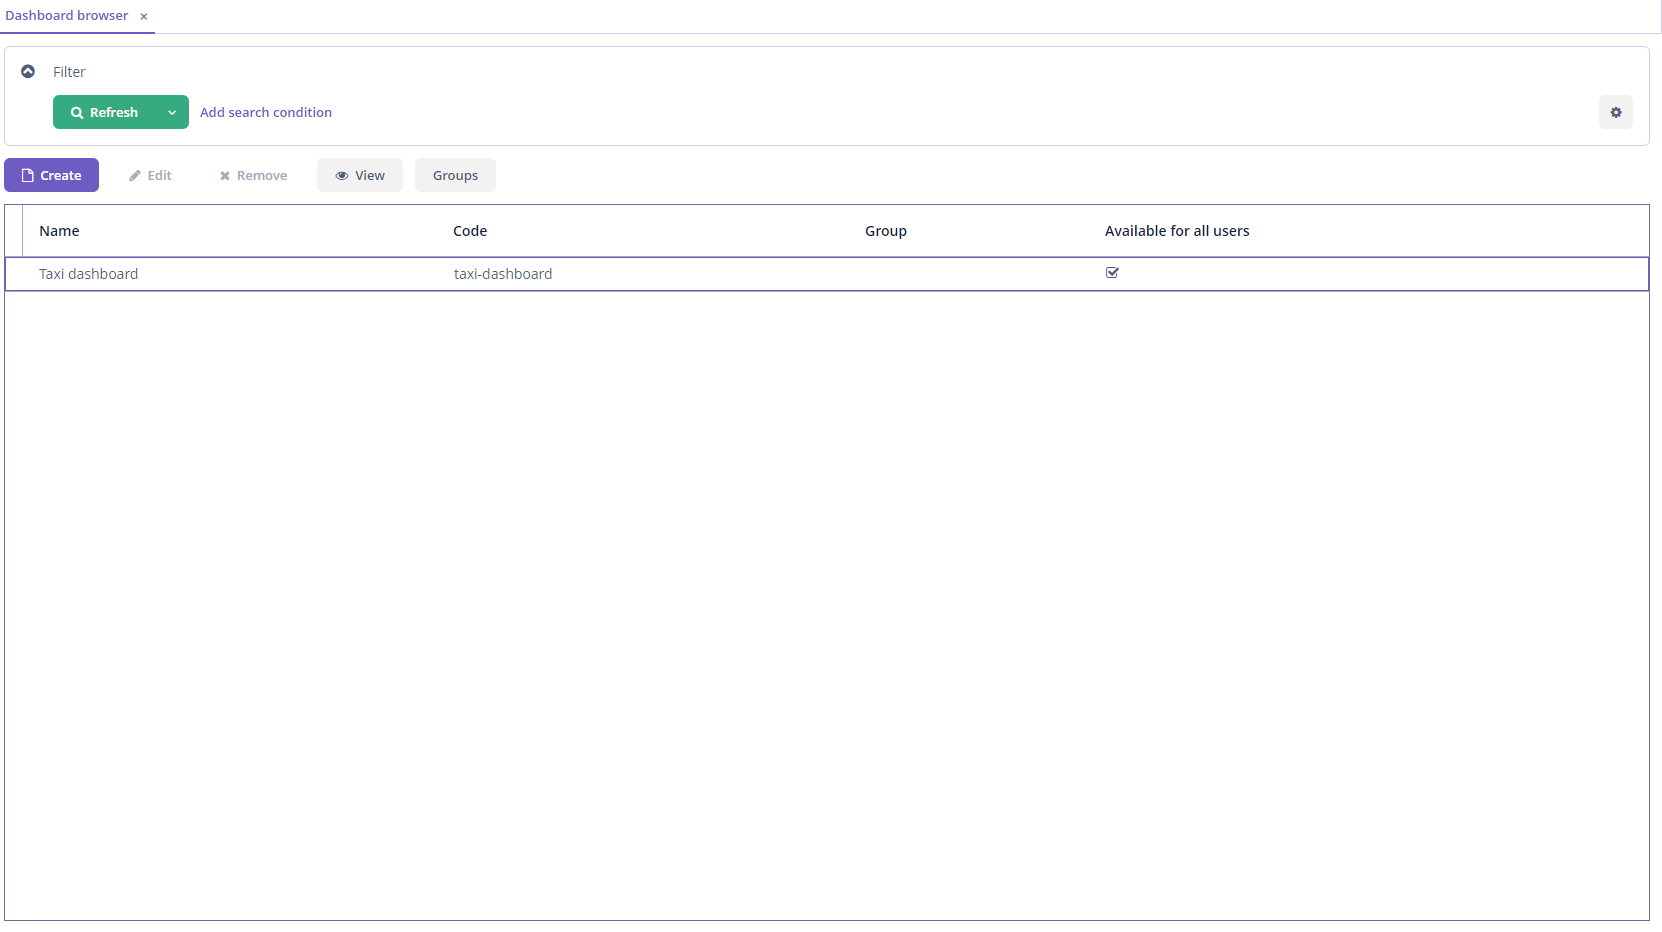
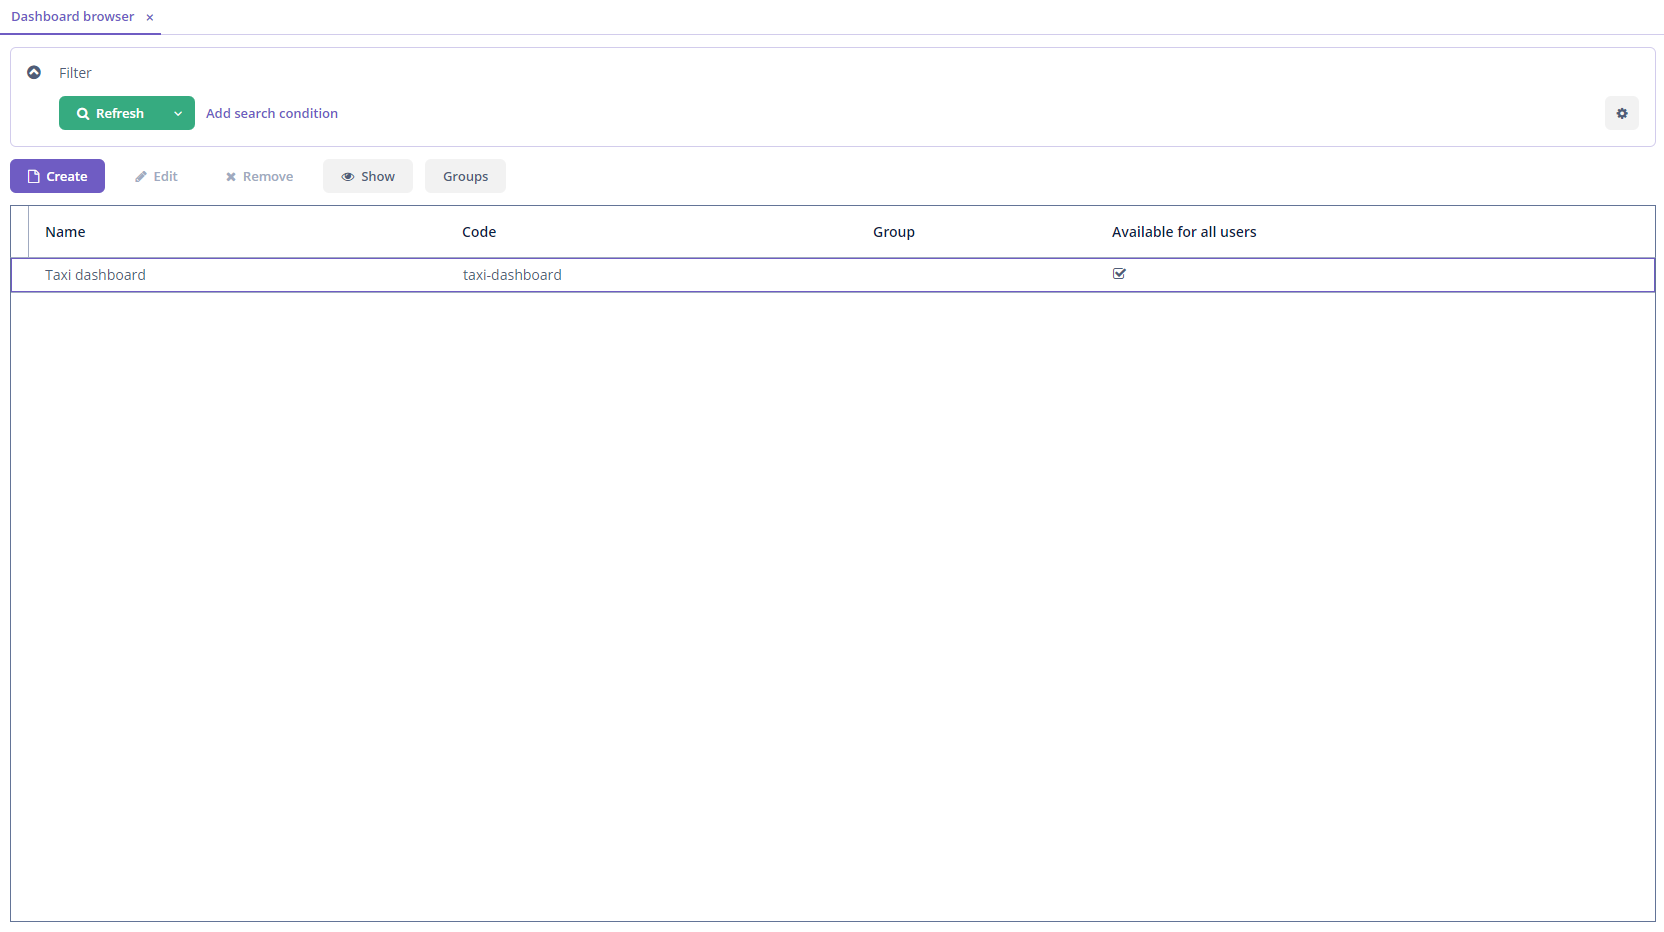
Fixed DashboardsBrowseRole #16

Changed region(s): [[0.0, 0.0, 1.0, 0.3423], [0.2148, 0.1867, 0.2455, 0.2178]]

diff --git a/dashboards-ui/src/main/java/io/jmix/dashboardsui/screen/dashboard/browse/PersistentDashboardBrowse.java b/dashboards-ui/src/main/java/io/jmix/dashboardsui/screen/dashboard/browse/PersistentDashboardBrowse.java
@@ -21,15 +21,19 @@ import io.jmix.core.common.util.ParamsMap;
 import io.jmix.dashboards.entity.PersistentDashboard;
 import io.jmix.dashboardsui.dashboard.tools.AccessConstraintsHelper;
 import io.jmix.dashboardsui.role.accesscontext.DashboardGroupBrowseContext;
+import io.jmix.dashboardsui.role.accesscontext.PersistentDashboardEditButtonContext;
 import io.jmix.dashboardsui.screen.dashboard.view.DashboardViewScreen;
 import io.jmix.dashboardsui.screen.dashboardgroup.DashboardGroupBrowse;
 import io.jmix.ui.Screens;
 import io.jmix.ui.action.Action;
+import io.jmix.ui.action.list.EditAction;
 import io.jmix.ui.component.Button;
 import io.jmix.ui.model.CollectionContainer;
 import io.jmix.ui.model.CollectionLoader;
 import io.jmix.ui.screen.*;
 import org.springframework.beans.factory.annotation.Autowired;
+
+import javax.inject.Named;
 
 @UiController("dshbrd_PersistentDashboard.browse")
 @UiDescriptor("persistent-dashboard-browse.xml")
@@ -54,12 +58,22 @@ public class PersistentDashboardBrowse extends StandardLookup<PersistentDashboar
     @Autowired
     private Button dashboardGroupsBrowse;
 
+    @Named("persistentDashboardsTable.edit")
+    private EditAction<PersistentDashboard> persistentDashboardsTableEdit;
+
     @Subscribe
     public void onBeforeShow(BeforeShowEvent event) {
         persistentDashboardsDl.setParameter("currentUser", accessConstraintsHelper.getCurrentUsername());
         persistentDashboardsDl.load();
 
+        persistentDashboardsTableEdit.setEnabled(isDashboardEditButtonPermitted());
         dashboardGroupsBrowse.setEnabled(isDashboardGroupBrowsePermitted());
+    }
+
+    protected boolean isDashboardEditButtonPermitted() {
+        PersistentDashboardEditButtonContext dashboardEditButtonContext = new PersistentDashboardEditButtonContext();
+        accessManager.applyRegisteredConstraints(dashboardEditButtonContext);
+        return dashboardEditButtonContext.isPermitted();
     }
 
     protected boolean isDashboardGroupBrowsePermitted() {
@@ -73,8 +87,8 @@ public class PersistentDashboardBrowse extends StandardLookup<PersistentDashboar
         screens.create(DashboardGroupBrowse.class, OpenMode.NEW_TAB).show();
     }
 
-    @Subscribe("persistentDashboardsTable.view")
-    public void viewDashboard(Action.ActionPerformedEvent event) {
+    @Subscribe("persistentDashboardsTable.show")
+    public void showDashboard(Action.ActionPerformedEvent event) {
         PersistentDashboard item = persistentDashboardsDc.getItemOrNull();
         if (item != null) {
             screens.create(DashboardViewScreen.class, OpenMode.NEW_TAB, new MapScreenOptions(ParamsMap.of(

diff --git a/dashboards-ui/src/main/java/io/jmix/dashboardsui/role/accesscontext/PersistentDashboardEditButtonContext.java b/dashboards-ui/src/main/java/io/jmix/dashboardsui/role/accesscontext/PersistentDashboardEditButtonContext.java
@@ -1,0 +1,27 @@
+/*
+ * Copyright 2021 Haulmont.
+ *
+ * Licensed under the Apache License, Version 2.0 (the "License");
+ * you may not use this file except in compliance with the License.
+ * You may obtain a copy of the License at
+ *
+ *     http://www.apache.org/licenses/LICENSE-2.0
+ *
+ * Unless required by applicable law or agreed to in writing, software
+ * distributed under the License is distributed on an "AS IS" BASIS,
+ * WITHOUT WARRANTIES OR CONDITIONS OF ANY KIND, either express or implied.
+ * See the License for the specific language governing permissions and
+ * limitations under the License.
+ */
+
+package io.jmix.dashboardsui.role.accesscontext;
+
+import io.jmix.core.accesscontext.SpecificOperationAccessContext;
+
+public class PersistentDashboardEditButtonContext extends SpecificOperationAccessContext {
+	public static final String NAME = "dashboardEditButton";
+
+	public PersistentDashboardEditButtonContext() {
+		super(NAME);
+	}
+}

diff --git a/dashboards-ui/src/main/java/io/jmix/dashboardsui/role/DashboardsBrowseRole.java b/dashboards-ui/src/main/java/io/jmix/dashboardsui/role/DashboardsBrowseRole.java
@@ -24,7 +24,6 @@ import io.jmix.security.model.SecurityScope;
 import io.jmix.security.role.annotation.EntityAttributePolicy;
 import io.jmix.security.role.annotation.EntityPolicy;
 import io.jmix.security.role.annotation.ResourceRole;
-import io.jmix.security.role.annotation.SpecificPolicy;
 import io.jmix.securityui.role.annotation.MenuPolicy;
 import io.jmix.securityui.role.annotation.ScreenPolicy;
 
@@ -41,7 +40,6 @@ public interface DashboardsBrowseRole {
             "dashboard",
             "dshbrd_PersistentDashboard.browse"
     })
-    @SpecificPolicy(resources = {"dashboardGroupsBrowse"})
     @EntityPolicy(entityClass = DashboardGroup.class, actions = {EntityPolicyAction.READ})
     @EntityPolicy(entityClass = PersistentDashboard.class, actions = {EntityPolicyAction.READ})
     @EntityAttributePolicy(entityClass = DashboardGroup.class, action = EntityAttributePolicyAction.MODIFY, attributes = "*")

diff --git a/dashboards-ui/src/main/java/io/jmix/dashboardsui/role/DashboardsAdminRole.java b/dashboards-ui/src/main/java/io/jmix/dashboardsui/role/DashboardsAdminRole.java
@@ -63,6 +63,7 @@ public interface DashboardsAdminRole {
             "dshbrd_WidgetTemplate.browse"
     })
     @SpecificPolicy(resources = "dashboardGroupsBrowse")
+    @SpecificPolicy(resources = "dashboardEditButton")
     @EntityPolicy(entityClass = Parameter.class, actions = {EntityPolicyAction.ALL})
     @EntityPolicy(entityClass = WidgetTemplateGroup.class, actions = {EntityPolicyAction.ALL})
     @EntityPolicy(entityClass = WidgetTemplate.class, actions = {EntityPolicyAction.ALL})
